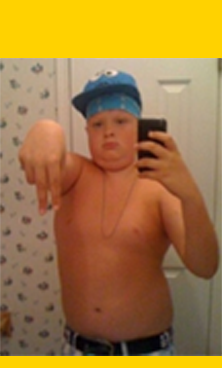
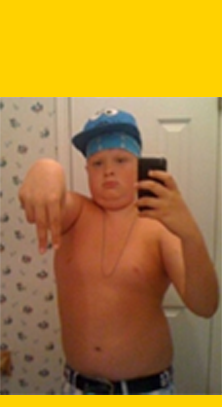
jervotweaks

diff --git a/css/style.css b/css/style.css
@@ -1,6 +1,7 @@
 body{
  width: 100%;
  font-family: arial;
+ background-color: black;
 }
 
 .wrapper {
@@ -11,6 +12,8 @@ body{
   padding: 20px 0 0 30px;
   z-index: 100;
   position: relative;
+  background-color: white;
+
 }
 
 header{
@@ -26,6 +29,7 @@ h1{
   line-height: 56px;
   z-index: 5;
   position: relative;
+  transform: rotate(-1deg);
 }
 
 .button {
@@ -38,6 +42,7 @@ h1{
   position: absolute;
   color: black;
   z-index: 100;
+  transform: rotate(-3deg);
 }
 
 .button:hover {
@@ -107,6 +112,10 @@ form{
   width: 25%;
   position: relative;
   z-index: 1;
+  text-shadow: 2px 2px #000000;
+  font-weight: bold;
+  color: white;
+  transform: rotate(3deg);
 }
 
 .cards{
@@ -116,21 +125,21 @@ form{
 }
 
 .yungboul{
-  transform: rotate(-13deg) translate(-70px,50px);
+  transform: rotate(-193deg) translate(20px,-110px);
 }
 
 .ocky{
-  transform: rotate(11deg) translate(260px,-50px);
+  transform: rotate(11deg) translate(410px,-10px);
 }
 
 .widdout{
-  transform: rotate(161deg) translate(-220px,-170px);
+  transform: rotate(-199deg) translate(-130px,-50px);
 }
 .bread{
   transform: rotate(31deg) translate(60px,-10px);
 }
 .jawn{
-  transform: rotate(-149deg) translate(-90px,140px);
+  transform: rotate(-109deg) translate(6px,90px);
 }
 .salpeppaketchup{
   transform: rotate(-9deg) translate(20px,140px);
@@ -154,9 +163,14 @@ form{
   transform: rotate(-8deg) translate(437px,120px);
 }
 
+.help{
+  transform: rotate(-8deg) translate(479px,154px);
+
+}
+
 .overlay{
   z-index: 101;
-  width: 810px;
+  width: 850px;
   height: 620px;
   left: 0;
   right: 0;
@@ -167,16 +181,16 @@ form{
 }
 
 .yungboulbig{
-  transform: rotate(7deg) translate(330px,120px);
+  transform: rotate(7deg) translate(307px,44px);
   z-index: 101;
   position: relative;
 }
 .bg{
   background-color: black;
   z-index: 101;
-  width: 810px;
+  width: 840px;
   height: 620px;
-  left: 0;
+
   right: 0;
   margin-left: auto;
   margin-right: auto;
@@ -189,7 +203,7 @@ h2{
   line-height: 14px;
   z-index: 102;
   position: absolute;
-  transform: rotate(7deg) translate(347px,131px);
+  transform: rotate(7deg) translate(325px,68px);
 
 }
 .close{
@@ -201,5 +215,5 @@ h2{
   line-height: 14px;
   z-index: 102;
   position: absolute;
-  transform: rotate(7deg) translate(554px,111px);
+  transform: rotate(7deg) translate(534px,36px);
 }

diff --git a/index.html b/index.html
@@ -22,18 +22,7 @@
         <img class="whiz" src="images/whiz.png"></img>
         <img class="wooderice" src="images/wooderice.png"></img>
         <img class="ard" src="images/ard.png"></img>
-
-
-
-
-
-
-
-
-
-
-
-
+        <img class="help" src="images/help.png"></img>
 
       </div>
 
@@ -42,12 +31,15 @@
       <h1>SLANGERRRR</h1>
         <form>
         NAME:<br>
-        <input type="text" name="name" value="NAME" style="width: 100%; height: 24px;"><br>
+        <input type="text" name="name" placeholder="name" style="width: 100%; height: 24px;"><br>
         BIRTHDAY:<br>
-        <input type="date" name="bday" value="BIRTHDAY" style="width: 100%; height: 24px;"><br><br>
+        <input type="date" name="bday" style="width: 100%; height: 24px;"><br><br>
         </form>
 
+
         <a href="yungboul.html" class="button">SLANG ME!</a>
+
+
 
 
    </div>

diff --git a/yungboul.html b/yungboul.html
@@ -13,8 +13,9 @@
 </div>
 
       <a class="close" href="index.html">X</a>
-      <h2>Youse a 'Yung boul' <br>
-        and were born a Leo</h2>
+      <h2>Youse a 'Yung boul' <br><br>
+        born between Jul 23 - <br>
+        Aug 21 (Leo)</h2>
       <img class="yungboulbig" src="images/yungboulbig.png"></img>
 
     </div>
